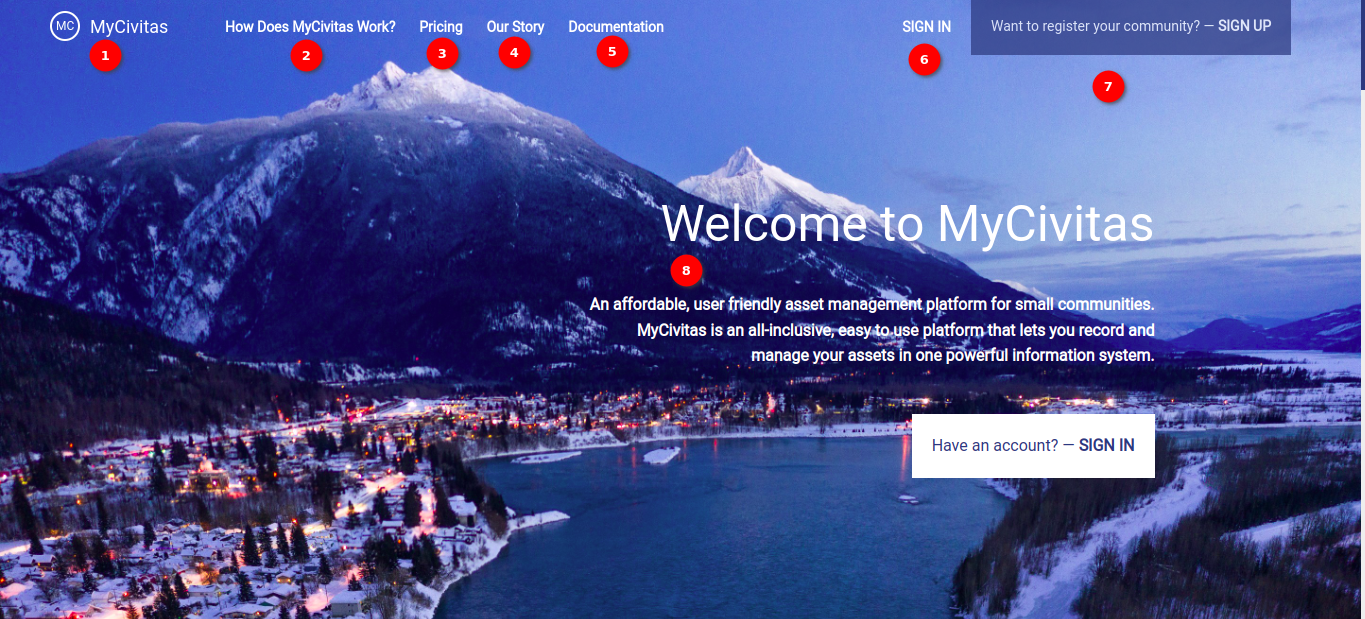
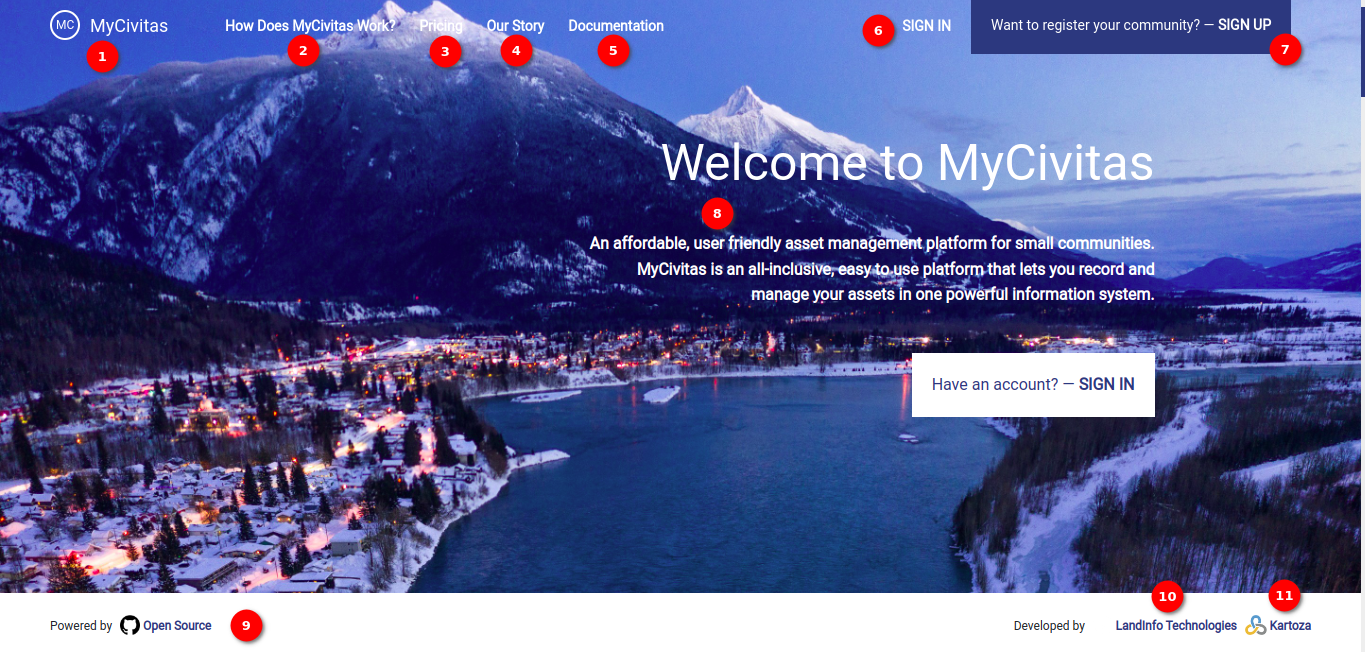
Update the landing page manual (#84)

diff --git a/docs/src/user/manual/landing-page.md b/docs/src/user/manual/landing-page.md
@@ -105,6 +105,18 @@ Easily sign in if the user is an existing user or sign up to join the MyCivitas 
 
 8. **Message:** Welcome to MyCivitas. Read the welcoming message that introduces MyCivitas as an affordable, user-friendly asset management platform for small communities.
 
+9. **Open Source: Github Link:** Explore our open-source projects on [GitHub](https://github.com/landinfotech/mycivitas) to stay connected with our community and contribute to exciting initiatives.
+
+10. `Developed By` **LandInfo Technologies:** Visit the [LandInfo Technologies](https://www.landinfotech.com/) website to learn more about the organisation behind MyCivitas.
+
+![LandInfo Technologies](./img/sign-up-3.png)
+
+11. `Developed By` **Kartoza:** Explore the [Kartoza](https://kartoza.com/) website for additional information about the organisation that developed MyCivitas.
+
+![LandInfo Technologies](./img/sign-up-4.png)
+
+By following these steps and providing the necessary information, users can successfully create an account on `MyCivitas`.
+
 ## Landing Page After Login
 
 ### Navigation
@@ -112,6 +124,8 @@ Easily sign in if the user is an existing user or sign up to join the MyCivitas 
 Use the navigation bar to explore various sections of the landing page. From understanding how MyCivitas works to exploring pricing and our story, everything is at the user's fingertips.
 
 Easily sign in if the user is an existing user or sign up to join the MyCivitas community. MyCivitas' user-friendly registration process ensures a quick and hassle-free onboarding experience.
+
+![landing page](./img/landing-page-15.png)
 
 1. **MyCivitas:** Click on `MyCivitas` to swiftly return to the top of the landing page.
 
@@ -181,3 +195,15 @@ Easily sign in if the user is an existing user or sign up to join the MyCivitas 
     ![profile icon](./img/landing-page-14.png)
 
 11. **Message:** Welcome to MyCivitas. Read the welcoming message that introduces MyCivitas as an affordable, user-friendly asset management platform for small communities.
+
+12. **Open Source: Github Link:** Explore our open-source projects on [GitHub](https://github.com/landinfotech/mycivitas) to stay connected with our community and contribute to exciting initiatives.
+
+13. `Developed By` **LandInfo Technologies:** Visit the [LandInfo Technologies](https://www.landinfotech.com/) website to learn more about the organisation behind MyCivitas.
+
+![LandInfo Technologies](./img/sign-up-3.png)
+
+14. `Developed By` **Kartoza:** Explore the [Kartoza](https://kartoza.com/) website for additional information about the organisation that developed MyCivitas.
+
+![LandInfo Technologies](./img/sign-up-4.png)
+
+By following these steps and providing the necessary information, users can successfully create an account on `MyCivitas`.

diff --git a/docs/src/user/manual/sign-up.md b/docs/src/user/manual/sign-up.md
@@ -21,6 +21,7 @@ To get started, simply click on the `SIGN-UP` button in the top right corner. On
 ## Sign Up Page
 
 ![sign up page](./img/sign-up-2.png)
+
 The sign-up process is divided into two main sections:
 
 1. **Select Your Community and Create Your Account:** In this section, the user needs to choose their community from a dropdown menu. And needs to provide the following information:
@@ -42,15 +43,3 @@ The sign-up process is divided into two main sections:
     - **Country:** Choose your country from the dropdown menu.
 
 3. **Create Account Button:** Click the `Create Account` button to submit the form and create your account.
-
-4. **Open Source: Github Link:** Explore our open-source projects on [GitHub](https://github.com/landinfotech/mycivitas) to stay connected with our community and contribute to exciting initiatives.
-
-5. `Developed By` **LandInfo Technologies:** Visit the [LandInfo Technologies](https://www.landinfotech.com/) website to learn more about the organisation behind MyCivitas.
-
-![LandInfo Technologies](./img/sign-up-3.png)
-
-6. `Developed By` **Kartoza:** Explore the [Kartoza](https://kartoza.com/) website for additional information about the organisation that developed MyCivitas.
-
-![LandInfo Technologies](./img/sign-up-4.png)
-
-By following these steps and providing the necessary information, users can successfully create an account on `MyCivitas`.
